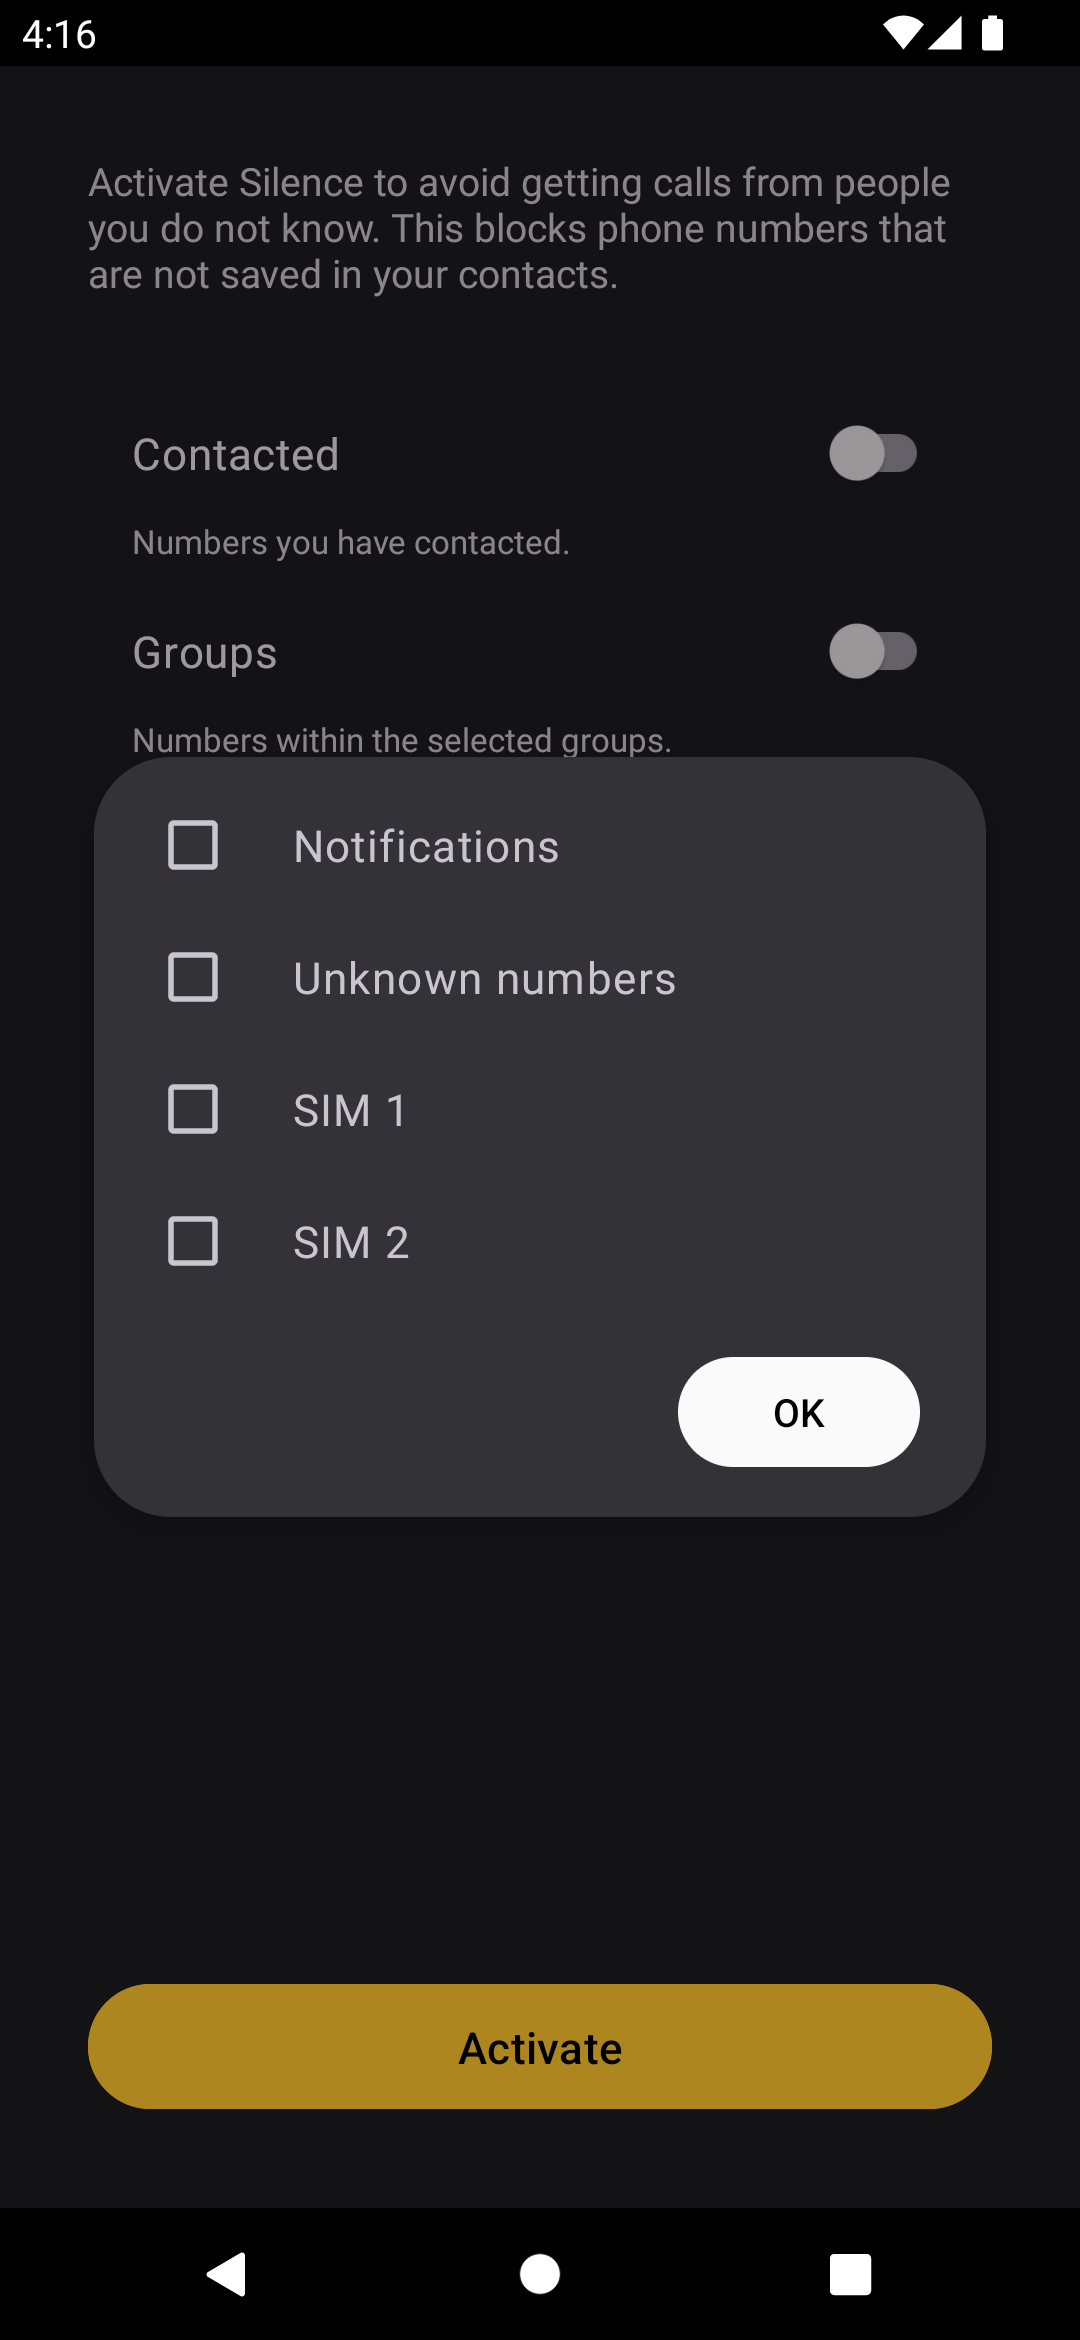
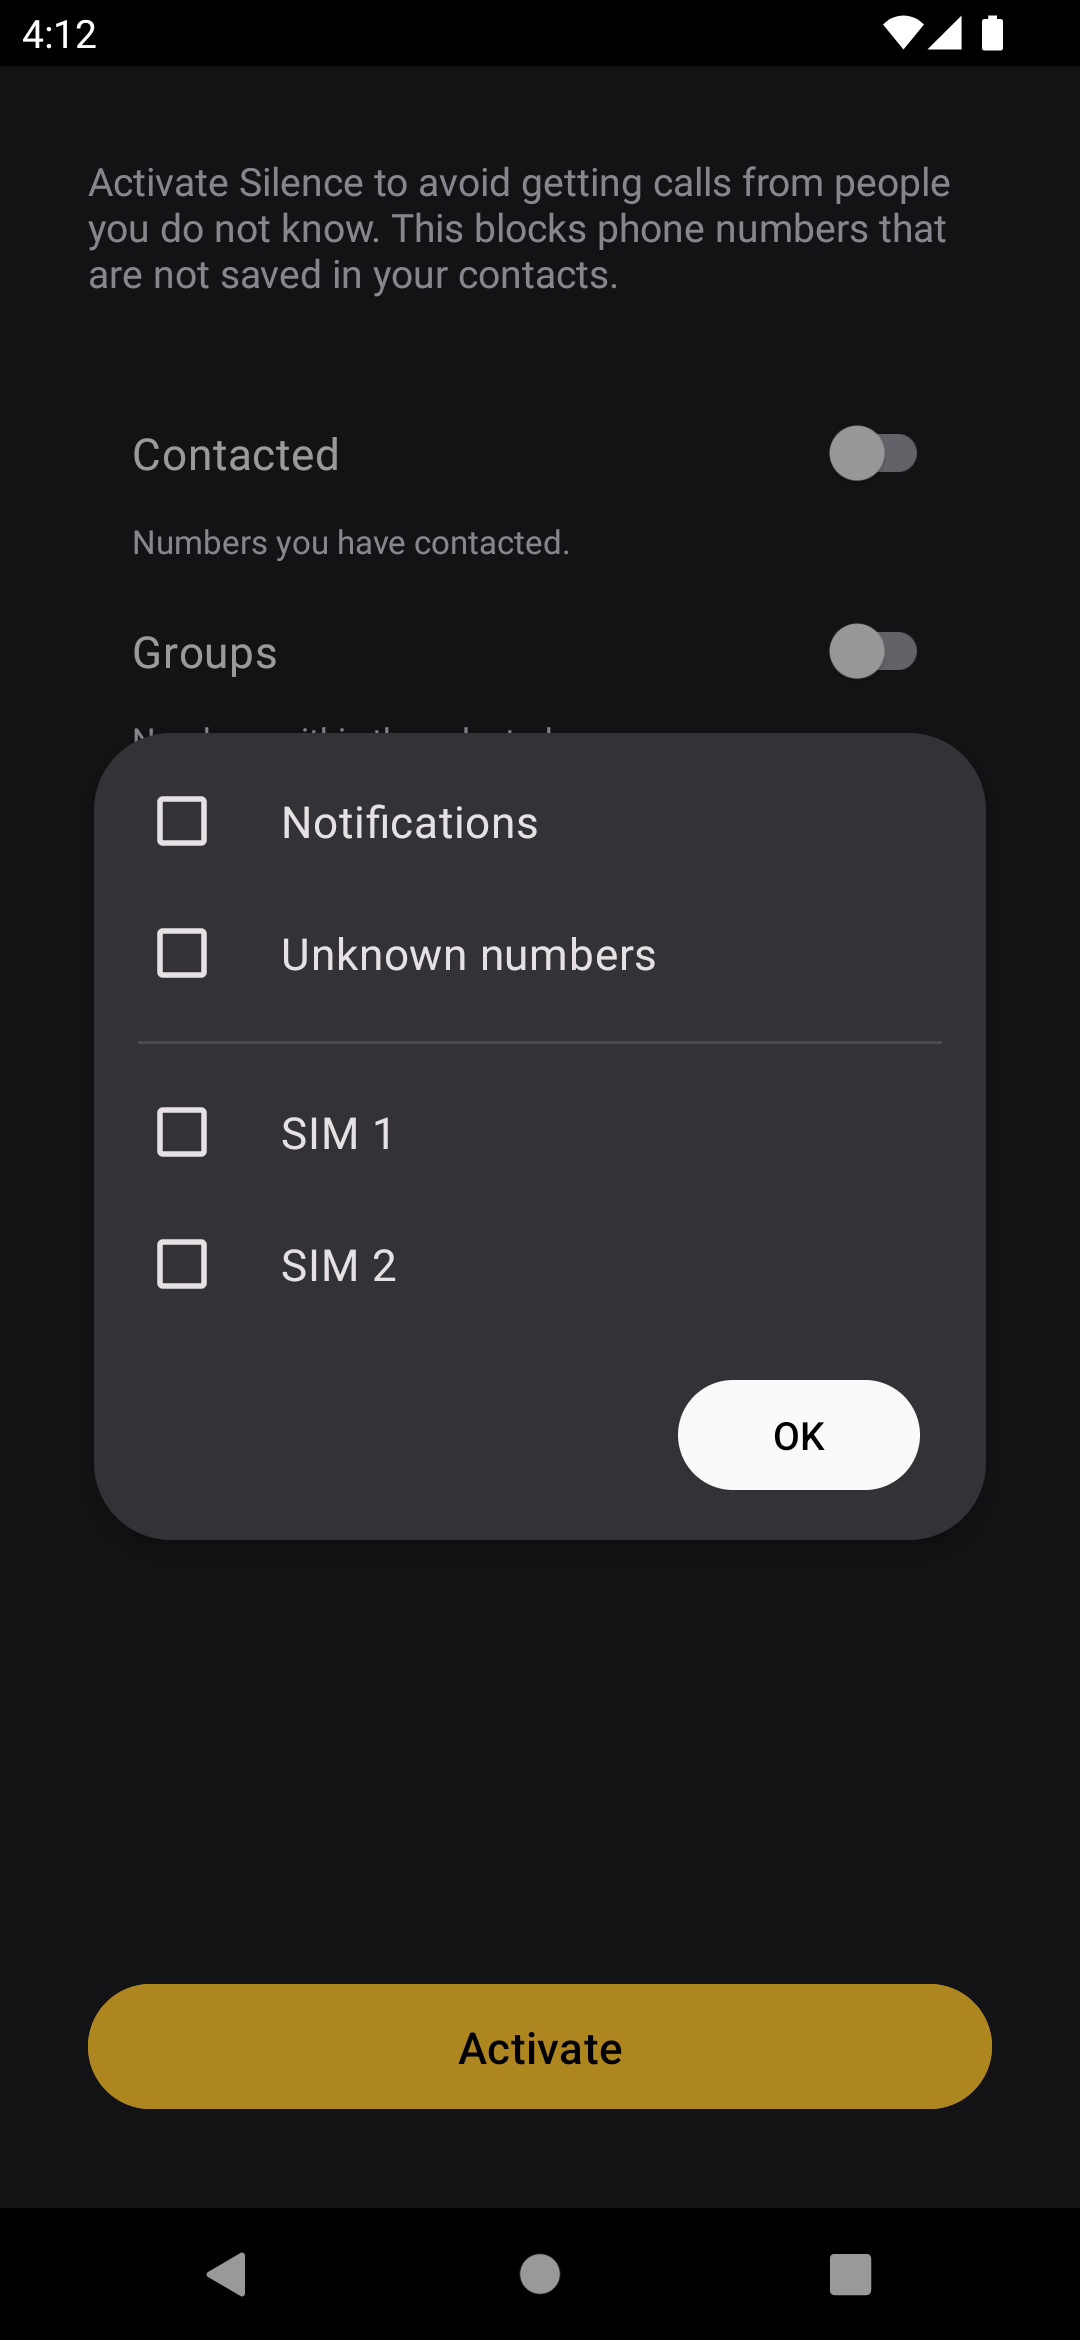
ref

diff --git a/app/src/main/java/me/lucky/silence/MainActivity.kt b/app/src/main/java/me/lucky/silence/MainActivity.kt
@@ -8,6 +8,7 @@ import android.os.Bundle
 import android.view.View
 import android.widget.ArrayAdapter
 import android.widget.AutoCompleteTextView
+import android.widget.CheckBox
 import androidx.activity.result.contract.ActivityResultContracts
 import androidx.appcompat.app.AlertDialog
 import androidx.appcompat.app.AppCompatActivity
@@ -239,31 +240,31 @@ open class MainActivity : AppCompatActivity() {
     }
 
     private fun showRepeatedSettings() {
-        val itemsN = resources.getStringArray(R.array.repeated_settings_n)
-        val itemsT = resources.getStringArray(R.array.repeated_settings_t)
-        val repeatedSettings = prefs.repeatedSettings
+        val itemsN = resources.getStringArray(R.array.repeated_count)
+        val itemsT = resources.getStringArray(R.array.repeated_minutes)
+        var count = prefs.repeatedCount
+        var minutes = prefs.repeatedMinutes
         @Suppress("InflateParams")
         val view = layoutInflater.inflate(R.layout.repeated_settings, null)
-        val n = view.findViewById<AutoCompleteTextView>(R.id.repeatedSettingsCount)
-        n.setText(repeatedSettings.count.toString())
+        val n = view.findViewById<AutoCompleteTextView>(R.id.repeatedCount)
+        n.setText(count.toString())
         n.setAdapter(ArrayAdapter(
             view.context,
             android.R.layout.simple_spinner_dropdown_item,
             itemsN,
         ))
-        val t = view.findViewById<AutoCompleteTextView>(R.id.repeatedSettingsMinutes)
-        t.setText(repeatedSettings.minutes.toString())
+        val t = view.findViewById<AutoCompleteTextView>(R.id.repeatedMinutes)
+        t.setText(minutes.toString())
         t.setAdapter(ArrayAdapter(
             view.context,
             android.R.layout.simple_spinner_dropdown_item,
             itemsT,
         ))
-        var count = repeatedSettings.count
-        var minutes = repeatedSettings.minutes
         val dialog = MaterialAlertDialogBuilder(this)
             .setView(view)
             .setPositiveButton(android.R.string.ok) { _, _ ->
-                prefs.repeatedSettings = RepeatedSettings(count, minutes)
+                prefs.repeatedCount = count
+                prefs.repeatedMinutes = minutes
             }
             .create()
         val updateButtonState = {
@@ -281,33 +282,53 @@ open class MainActivity : AppCompatActivity() {
     }
 
     private fun showGeneralSettings() {
-        var general = prefs.generalFlag
-        val flags = GeneralFlag.values().toMutableList()
-        val strings = resources.getStringArray(R.array.general_flag).toMutableList()
+        var isNotificationsChecked = prefs.isGeneralNotificationsChecked
+        var isUnknownNumbersChecked = prefs.isGeneralUnknownNumbersChecked
+        var sim = prefs.sim
+        @Suppress("InflateParams")
+        val view = layoutInflater.inflate(R.layout.general_settings, null)
         val hasApi31 = Build.VERSION.SDK_INT >= Build.VERSION_CODES.S
         val isMultiSim = Utils.getModemCount(this) >= 2
+        val notifications = view.findViewById<CheckBox>(R.id.notifications)
+        val unknownNumbers = view.findViewById<CheckBox>(R.id.unknownNumbers)
+        val sim1 = view.findViewById<CheckBox>(R.id.sim1)
+        val sim2 = view.findViewById<CheckBox>(R.id.sim2)
+        notifications.isChecked = isNotificationsChecked
+        unknownNumbers.isChecked = isUnknownNumbersChecked
+        sim1.isChecked = sim.and(Sim.SIM_1.value) != 0
+        sim2.isChecked = sim.and(Sim.SIM_2.value) != 0
         if (!hasApi31 || !isMultiSim) {
-            strings.removeAt(flags.indexOf(GeneralFlag.SIM_1))
-            flags.remove(GeneralFlag.SIM_1)
-            strings.removeAt(flags.indexOf(GeneralFlag.SIM_2))
-            flags.remove(GeneralFlag.SIM_2)
+            view.findViewById<View>(R.id.divider).visibility = View.GONE
+            sim1.visibility = View.GONE
+            sim2.visibility = View.GONE
+        }
+        notifications.setOnCheckedChangeListener { _, isChecked ->
+            isNotificationsChecked = isChecked
+        }
+        unknownNumbers.setOnCheckedChangeListener { _, isChecked ->
+            isUnknownNumbersChecked = isChecked
+        }
+        sim1.setOnCheckedChangeListener { _, isChecked ->
+            sim = when (isChecked) {
+                true -> sim.or(Sim.SIM_1.value)
+                false -> sim.and(Sim.SIM_1.value.inv())
+            }
+        }
+        sim2.setOnCheckedChangeListener { _, isChecked ->
+            sim = when (isChecked) {
+                true -> sim.or(Sim.SIM_2.value)
+                false -> sim.and(Sim.SIM_2.value.inv())
+            }
         }
         MaterialAlertDialogBuilder(this)
-            .setMultiChoiceItems(
-                strings.toTypedArray(),
-                flags.map { general.and(it.value) != 0 }.toBooleanArray(),
-            ) { _, index, isChecked ->
-                val flag = flags[index]
-                general = when (isChecked) {
-                    true -> general.or(flag.value)
-                    false -> general.and(flag.value.inv())
-                }
-            }
+            .setView(view)
             .setPositiveButton(android.R.string.ok) { _, _ ->
-                prefs.generalFlag = general
+                prefs.isGeneralNotificationsChecked = isNotificationsChecked
+                prefs.isGeneralUnknownNumbersChecked = isUnknownNumbersChecked
+                prefs.sim = sim
                 if (hasApi31 && isMultiSim && (
-                    general.and(GeneralFlag.SIM_1.value) != 0 ||
-                    general.and(GeneralFlag.SIM_2.value) != 0
+                    sim.and(Sim.SIM_1.value) != 0 ||
+                    sim.and(Sim.SIM_2.value) != 0
                 )) {
                     requestSimPermissions()
                 }

diff --git a/app/src/main/java/me/lucky/silence/Preferences.kt b/app/src/main/java/me/lucky/silence/Preferences.kt
@@ -16,17 +16,14 @@ class Preferences(ctx: Context) {
 
         private const val CONTACTED = "contacted"
         private const val GROUPS = "groups"
-        private const val REPEATED_SETTINGS = "repeated_settings"
-        private const val GENERAL_FLAG = "general_flag"
+        private const val REPEATED_COUNT = "repeated_count"
+        private const val REPEATED_MINUTES = "repeated_minutes"
+        private const val GENERAL_NOTIFICATIONS_CHECKED = "general_notifications_checked"
+        private const val GENERAL_UNKNOWN_NUMBERS_CHECKED = "general_unknown_numbers_checked"
+        private const val SIM = "sim"
 
-        // migration
-        private const val CALLBACK_CHECKED = "callback_checked"
-        private const val CODE_CHECKED = "code_checked"
-        private const val CODE_GROUPS = "code_groups"
-        private const val TOLL_FREE_CHECKED = "toll_free_checked"
-        private const val MESSAGE_CHECKED = "message_checked"
-        private const val SMS_CHECKED = "sms_checked"
-        private const val GENERAL_SETTINGS = "general_settings"
+        private const val DEFAULT_REPEATED_COUNT = 3
+        private const val DEFAULT_REPEATED_MINUTES = 5
     }
 
     private val prefs = PreferenceManager.getDefaultSharedPreferences(ctx)
@@ -36,10 +33,7 @@ class Preferences(ctx: Context) {
         set(value) = prefs.edit { putBoolean(SERVICE_ENABLED, value) }
 
     var isContactedChecked: Boolean
-        get() = prefs.getBoolean(
-            CONTACTED_CHECKED,
-            prefs.getBoolean(CALLBACK_CHECKED, false),
-        )
+        get() = prefs.getBoolean(CONTACTED_CHECKED, false)
         set(value) = prefs.edit { putBoolean(CONTACTED_CHECKED, value) }
 
     var contacted: Int
@@ -47,46 +41,44 @@ class Preferences(ctx: Context) {
         set(value) = prefs.edit { putInt(CONTACTED, value) }
 
     var isGroupsChecked: Boolean
-        get() = prefs.getBoolean(
-            GROUPS_CHECKED,
-            prefs.getBoolean(CODE_CHECKED, prefs.getBoolean(TOLL_FREE_CHECKED, false)),
-        )
+        get() = prefs.getBoolean(GROUPS_CHECKED, false)
         set(value) = prefs.edit { putBoolean(GROUPS_CHECKED, value) }
 
     var groups: Int
-        get() = prefs.getInt(GROUPS, prefs.getInt(
-            CODE_GROUPS,
-            if (prefs.getBoolean(TOLL_FREE_CHECKED, false))
-                Group.TOLL_FREE.value
-            else 0,
-        ))
+        get() = prefs.getInt(GROUPS, 0)
         set(value) = prefs.edit { putInt(GROUPS, value) }
 
     var isRepeatedChecked: Boolean
         get() = prefs.getBoolean(REPEATED_CHECKED, false)
         set(value) = prefs.edit { putBoolean(REPEATED_CHECKED, value) }
 
-    var repeatedSettings: RepeatedSettings
-        get() = RepeatedSettings.fromString(prefs.getString(
-            REPEATED_SETTINGS,
-            RepeatedSettings.default().toString(),
-        ) ?: "")
-        set(value) = prefs.edit { putString(REPEATED_SETTINGS, value.toString()) }
+    var repeatedCount: Int
+        get() = prefs.getInt(REPEATED_COUNT, DEFAULT_REPEATED_COUNT)
+        set(value) = prefs.edit { putInt(REPEATED_COUNT, value) }
+
+    var repeatedMinutes: Int
+        get() = prefs.getInt(REPEATED_MINUTES, DEFAULT_REPEATED_MINUTES)
+        set(value) = prefs.edit { putInt(REPEATED_MINUTES, value) }
 
     var isMessagesChecked: Boolean
-        get() = prefs.getBoolean(
-            MESSAGES_CHECKED,
-            prefs.getBoolean(MESSAGE_CHECKED, prefs.getBoolean(SMS_CHECKED, false)),
-        )
+        get() = prefs.getBoolean(MESSAGES_CHECKED, false)
         set(value) = prefs.edit { putBoolean(MESSAGES_CHECKED, value) }
 
     var isStirChecked: Boolean
         get() = prefs.getBoolean(STIR_CHECKED, false)
         set(value) = prefs.edit { putBoolean(STIR_CHECKED, value) }
 
-    var generalFlag: Int
-        get() = prefs.getInt(GENERAL_FLAG, prefs.getInt(GENERAL_SETTINGS, 0))
-        set(value) = prefs.edit { putInt(GENERAL_FLAG, value) }
+    var isGeneralNotificationsChecked: Boolean
+        get() = prefs.getBoolean(GENERAL_NOTIFICATIONS_CHECKED, false)
+        set(value) = prefs.edit { putBoolean(GENERAL_NOTIFICATIONS_CHECKED, value) }
+
+    var isGeneralUnknownNumbersChecked: Boolean
+        get() = prefs.getBoolean(GENERAL_UNKNOWN_NUMBERS_CHECKED, false)
+        set(value) = prefs.edit { putBoolean(GENERAL_UNKNOWN_NUMBERS_CHECKED, value) }
+
+    var sim: Int
+        get() = prefs.getInt(SIM, 0)
+        set(value) = prefs.edit { putInt(SIM, value) }
 
     fun registerListener(listener: SharedPreferences.OnSharedPreferenceChangeListener) {
         prefs.registerOnSharedPreferenceChangeListener(listener)
@@ -107,27 +99,7 @@ enum class Group(val value: Int) {
     LOCAL(1 shl 1),
 }
 
-enum class GeneralFlag(val value: Int) {
-    NOTIFICATIONS(1),
-    UNKNOWN_NUMBERS(1 shl 1),
-    SIM_1(1 shl 2),
-    SIM_2(1 shl 3),
-}
-
-data class RepeatedSettings(val count: Int, val minutes: Int) {
-    companion object {
-        private const val DELIMITER = ','
-        private const val DEFAULT_COUNT = 3
-        private const val DEFAULT_MINUTES = 5
-
-        fun fromString(str: String): RepeatedSettings {
-            val nt = str.split(DELIMITER)
-            assert(nt.size >= 2)
-            return RepeatedSettings(nt[0].toInt(), nt[1].toInt())
-        }
-
-        fun default() = RepeatedSettings(DEFAULT_COUNT, DEFAULT_MINUTES)
-    }
-
-    override fun toString() = "$count$DELIMITER$minutes"
+enum class Sim(val value: Int) {
+    SIM_1(1),
+    SIM_2(1 shl 1),
 }

diff --git a/app/src/main/java/me/lucky/silence/ControlReceiver.kt b/app/src/main/java/me/lucky/silence/ControlReceiver.kt
@@ -23,14 +23,12 @@ class ControlReceiver : BroadcastReceiver() {
         when (intent.action) {
             SET_ON -> setGlobalState(context, true)
             SET_OFF -> setGlobalState(context, false)
-            SET_UNKNOWN_NUMBERS_ON ->
-                setGeneralFlag(context, GeneralFlag.UNKNOWN_NUMBERS, true)
-            SET_UNKNOWN_NUMBERS_OFF ->
-                setGeneralFlag(context, GeneralFlag.UNKNOWN_NUMBERS, false)
-            SET_SIM_1_ON -> setSimState(context, GeneralFlag.SIM_1, true)
-            SET_SIM_1_OFF -> setSimState(context, GeneralFlag.SIM_1, false)
-            SET_SIM_2_ON -> setSimState(context, GeneralFlag.SIM_2, true)
-            SET_SIM_2_OFF -> setSimState(context, GeneralFlag.SIM_2, false)
+            SET_UNKNOWN_NUMBERS_ON -> setUnknownNumbersState(context, true)
+            SET_UNKNOWN_NUMBERS_OFF -> setUnknownNumbersState(context, false)
+            SET_SIM_1_ON -> setSimState(context, Sim.SIM_1, true)
+            SET_SIM_1_OFF -> setSimState(context, Sim.SIM_1, false)
+            SET_SIM_2_ON -> setSimState(context, Sim.SIM_2, true)
+            SET_SIM_2_OFF -> setSimState(context, Sim.SIM_2, false)
         }
     }
 
@@ -41,17 +39,17 @@ class ControlReceiver : BroadcastReceiver() {
         }
     }
 
-    private fun setGeneralFlag(ctx: Context, flag: GeneralFlag, state: Boolean) {
-        Preferences(ctx).apply {
-            generalFlag = when (state) {
-                true -> generalFlag.or(flag.value)
-                false -> generalFlag.and(flag.value.inv())
-            }
-        }
+    private fun setUnknownNumbersState(ctx: Context, state: Boolean) {
+        Preferences(ctx).isGeneralUnknownNumbersChecked = state
     }
 
-    private fun setSimState(ctx: Context, flag: GeneralFlag, state: Boolean) {
+    private fun setSimState(ctx: Context, flag: Sim, state: Boolean) {
         if (Build.VERSION.SDK_INT >= Build.VERSION_CODES.S && Utils.getModemCount(ctx) >= 2)
-            setGeneralFlag(ctx, flag, state)
+            Preferences(ctx).apply {
+                sim = when (state) {
+                    true -> sim.or(flag.value)
+                    false -> sim.and(flag.value.inv())
+                }
+            }
     }
 }

diff --git a/app/src/main/java/me/lucky/silence/CallScreeningService.kt b/app/src/main/java/me/lucky/silence/CallScreeningService.kt
@@ -73,7 +73,7 @@ class CallScreeningService : CallScreeningService() {
     }
 
     private fun respondReject(callDetails: Call.Details) {
-        val isNotify = prefs.generalFlag.and(GeneralFlag.NOTIFICATIONS.value) != 0
+        val isNotify = prefs.isGeneralNotificationsChecked
         val tel = callDetails.handle?.schemeSpecificPart
         respondToCall(
             callDetails,
@@ -103,9 +103,9 @@ class CallScreeningService : CallScreeningService() {
 
     private fun checkSim(): Boolean {
         if (Build.VERSION.SDK_INT < Build.VERSION_CODES.S || !isMultiSim) return false
-        val flag = prefs.generalFlag
-        return (flag.and(GeneralFlag.SIM_1.value) != 0 && checkSimSlot(0)) ||
-                (flag.and(GeneralFlag.SIM_2.value) != 0 && checkSimSlot(1))
+        val sim = prefs.sim
+        return (sim.and(Sim.SIM_1.value) != 0 && checkSimSlot(0)) ||
+                (sim.and(Sim.SIM_2.value) != 0 && checkSimSlot(1))
     }
 
     @RequiresApi(Build.VERSION_CODES.S)
@@ -121,6 +121,6 @@ class CallScreeningService : CallScreeningService() {
 
     private fun checkUnknownNumber(callDetails: Call.Details): Boolean {
         return callDetails.handle?.schemeSpecificPart == null &&
-            prefs.generalFlag.and(GeneralFlag.UNKNOWN_NUMBERS.value) != 0
+                prefs.isGeneralUnknownNumbersChecked
     }
 }

diff --git a/app/src/main/java/me/lucky/silence/CallScreeningHelper.kt b/app/src/main/java/me/lucky/silence/CallScreeningHelper.kt
@@ -109,7 +109,6 @@ class CallScreeningHelper(private val ctx: Context) {
 
     private fun checkRepeated(number: Phonenumber.PhoneNumber): Boolean {
         val cursor: Cursor?
-        val repeatedSettings = prefs.repeatedSettings
         try {
             cursor = ctx.contentResolver.query(
                 makeContentUri(CallLog.Calls.CONTENT_FILTER_URI, number),
@@ -117,14 +116,14 @@ class CallScreeningHelper(private val ctx: Context) {
                 "${CallLog.Calls.TYPE} = ? AND ${CallLog.Calls.DATE} > ?",
                 arrayOf(
                     CallLog.Calls.BLOCKED_TYPE.toString(),
-                    (System.currentTimeMillis() - repeatedSettings.minutes * 60 * 1000).toString(),
+                    (System.currentTimeMillis() - prefs.repeatedMinutes * 60 * 1000).toString(),
                 ),
                 null,
             )
         } catch (exc: SecurityException) { return false }
         var result = false
         cursor?.apply {
-            if (count >= repeatedSettings.count - 1) { result = true }
+            if (count >= prefs.repeatedCount - 1) { result = true }
             close()
         }
         return result
